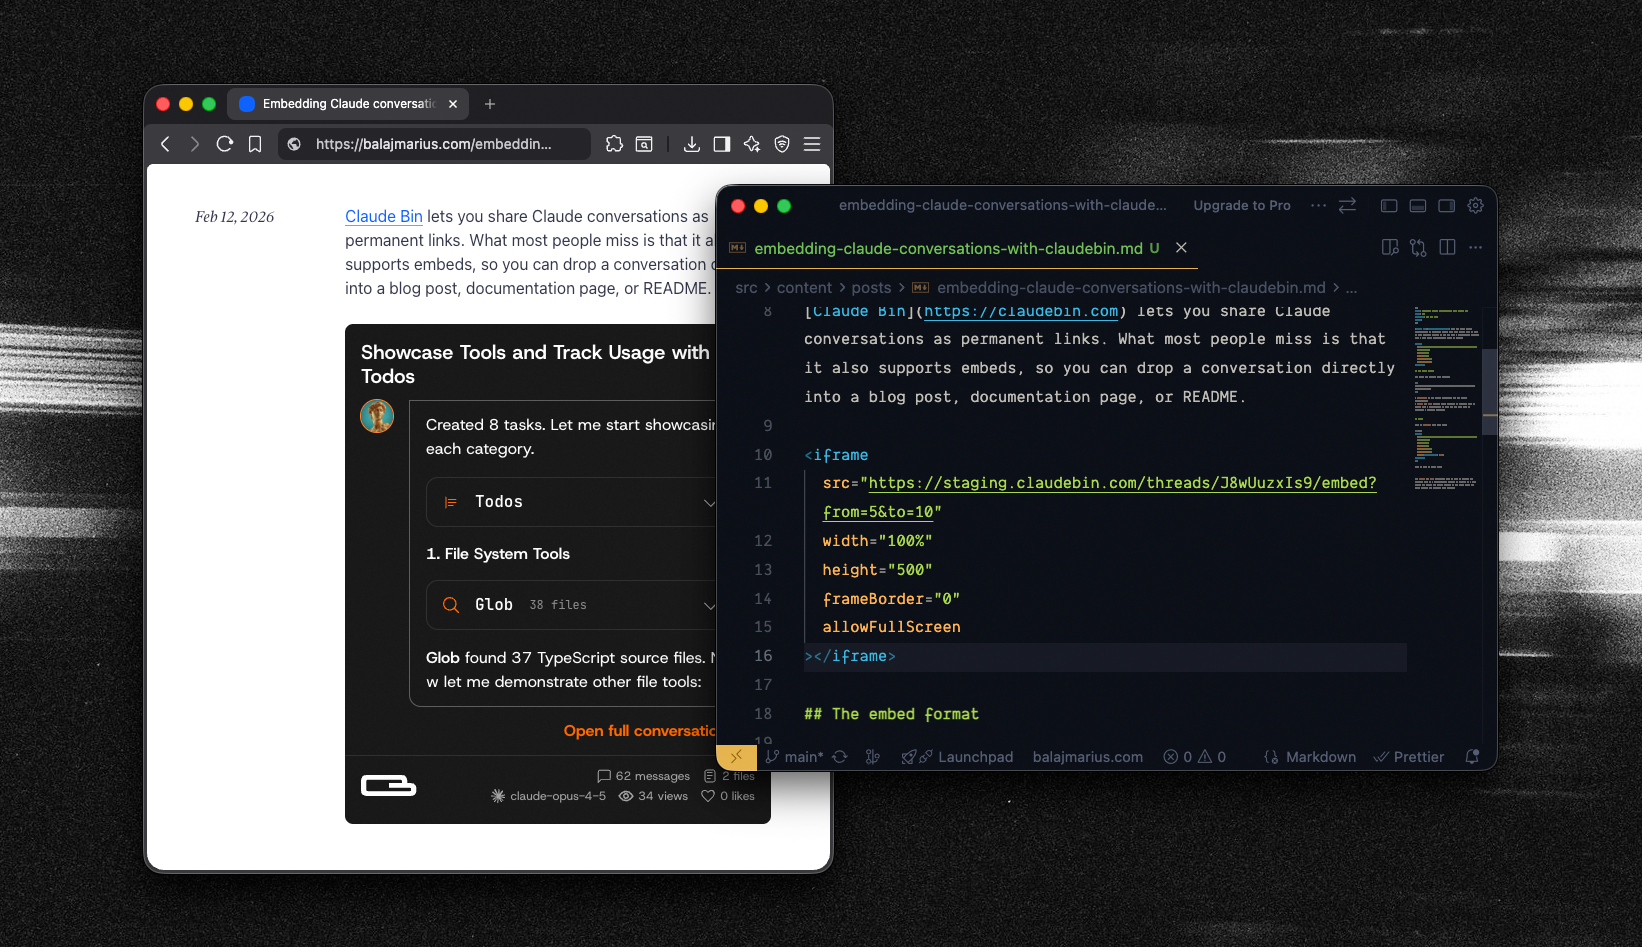
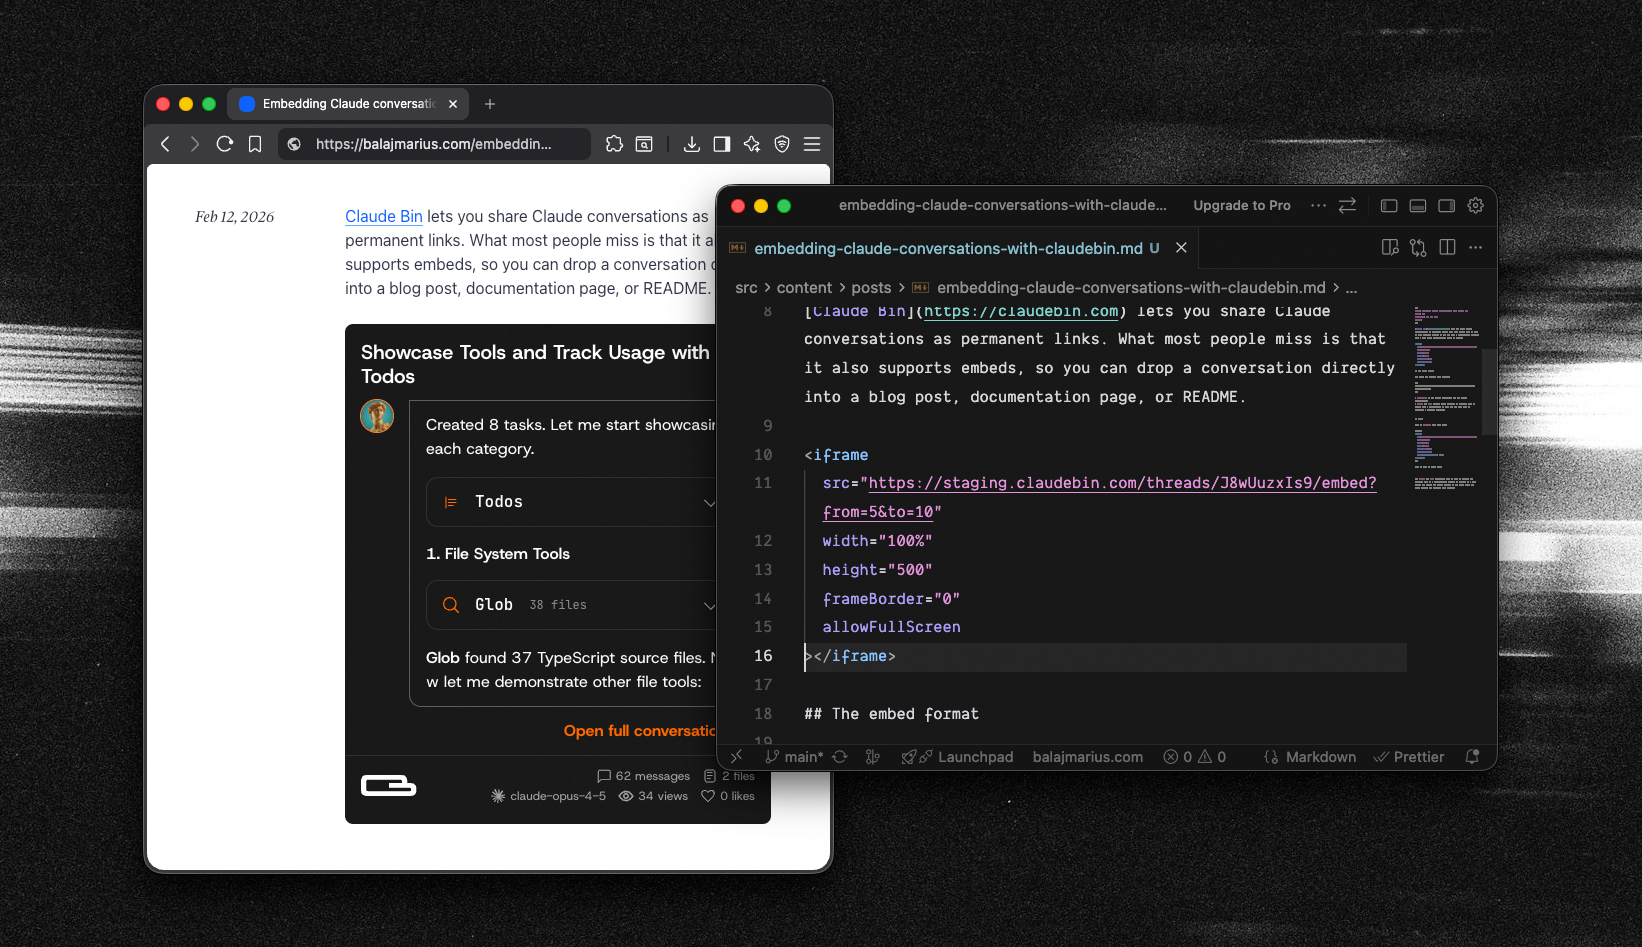
chore: update README

diff --git a/README.md b/README.md
@@ -14,13 +14,13 @@
 
 ---
 
-> **Web App** (this repo) &mdash; the Next.js frontend and API at [claudebin.com](https://claudebin.com)
+> **Web App** (this repo) - the Next.js frontend and API at [claudebin.com](https://claudebin.com)
 >
-> **Plugin** &mdash; the Claude Code plugin at [github.com/wunderlabs-dev/claudebin](https://github.com/wunderlabs-dev/claudebin)
+> **Plugin** - the Claude Code plugin at [github.com/wunderlabs-dev/claudebin](https://github.com/wunderlabs-dev/claudebin)
 
 ## What it looks like
 
-Publish any Claude Code session with a single command and get a shareable link — complete with syntax highlighting, tool calls, and the full conversation thread.
+Publish any Claude Code session with a single command and get a shareable link - complete with syntax highlighting, tool calls, and the full conversation thread.
 
 <p align="center">
   <img src=".github/screenshot-thread.png" alt="Thread view" />
